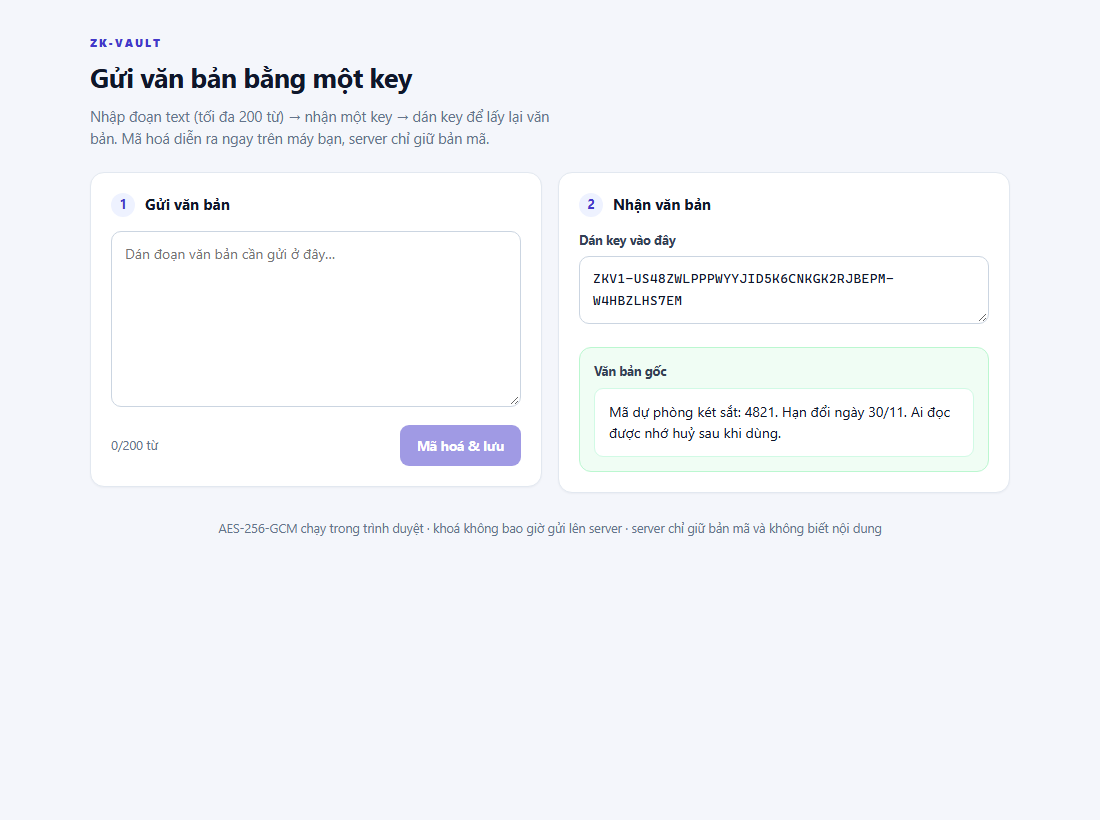
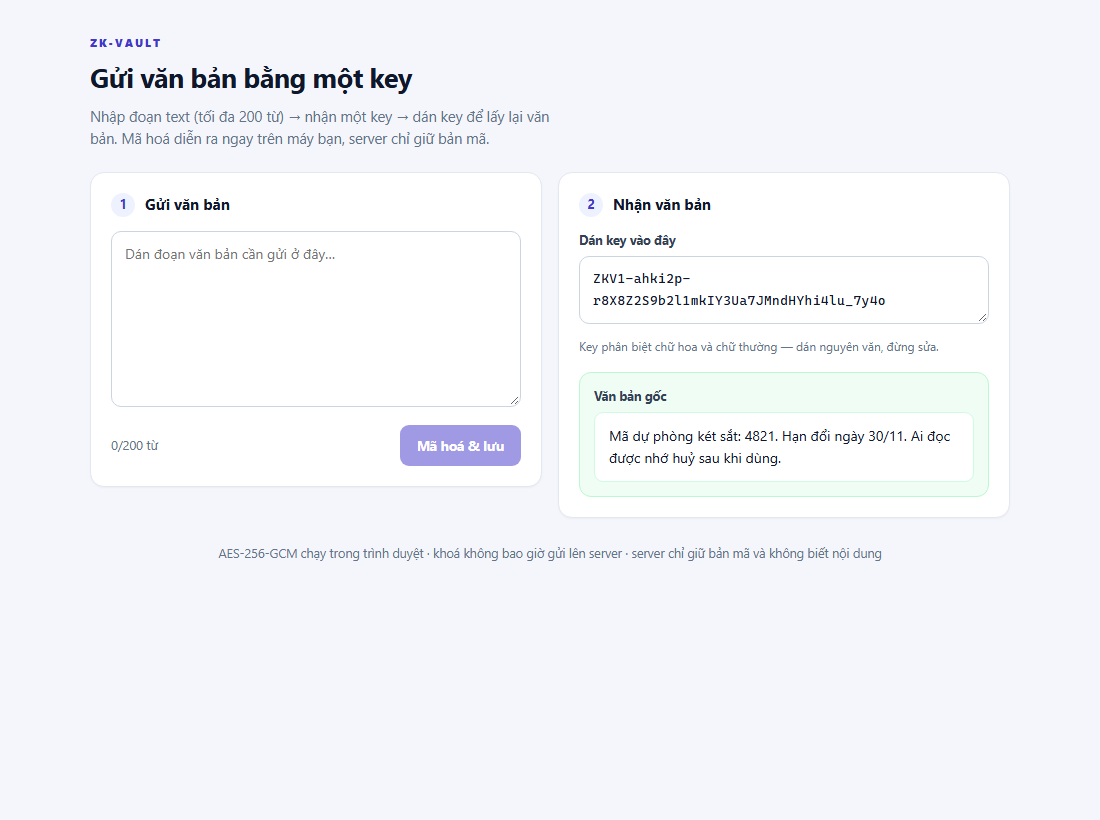
fix: bo text-transform uppercase o o nhap key (Base64URL phan biet hoa thuong)

Changed region(s): [[0.5255, 0.3354, 0.8655, 0.5793], [0.1855, 0.6402, 0.8036, 0.7012]]

diff --git a/public/style.css b/public/style.css
@@ -122,11 +122,11 @@ textarea:focus {
     border-color: var(--brand);
 }
 
+/* Key Base64URL phân biệt hoa/thường -> tuyệt đối không dùng text-transform */
 .key-input {
     font-family: var(--mono);
     font-size: 13px;
     letter-spacing: .04em;
-    text-transform: uppercase;
     min-height: 66px;
     line-height: 1.7;
 }
@@ -227,6 +227,12 @@ button.ghost:hover {
     font-weight: 650;
     color: #334155;
     margin-bottom: 6px;
+}
+
+.hint {
+    margin: 6px 0 0;
+    font-size: 12px;
+    color: var(--muted);
 }
 
 .keybox {

diff --git a/public/index.html b/public/index.html
@@ -52,7 +52,8 @@
 
                 <label class="label" for="keyIn">Dán key vào đây</label>
                 <textarea id="keyIn" class="key-input" rows="2" spellcheck="false" autocomplete="off"
-                    placeholder="ZKV1-…"></textarea>
+                    autocapitalize="off" autocorrect="off" placeholder="ZKV1-…"></textarea>
+                <p class="hint">Key phân biệt chữ hoa và chữ thường — dán nguyên văn, đừng sửa.</p>
 
                 <p class="msg" id="recvMsg" hidden></p>
 
